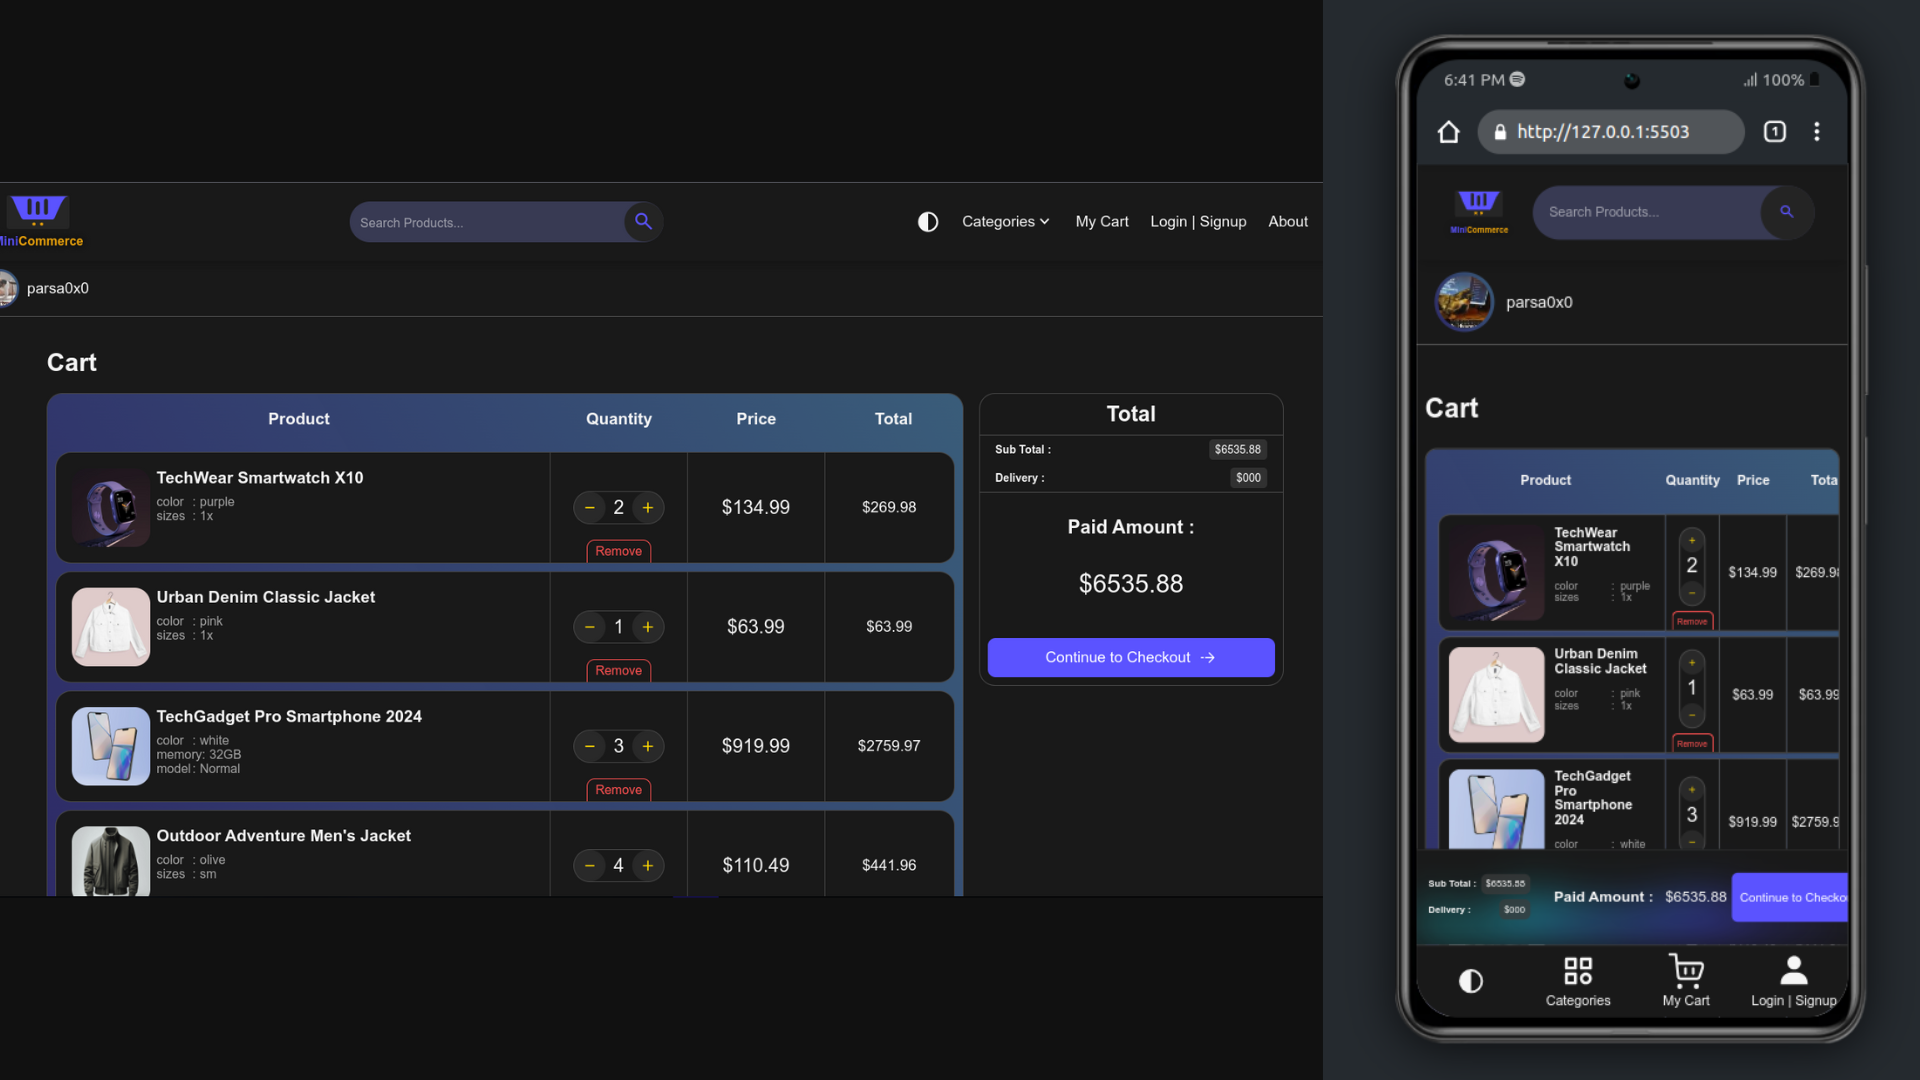
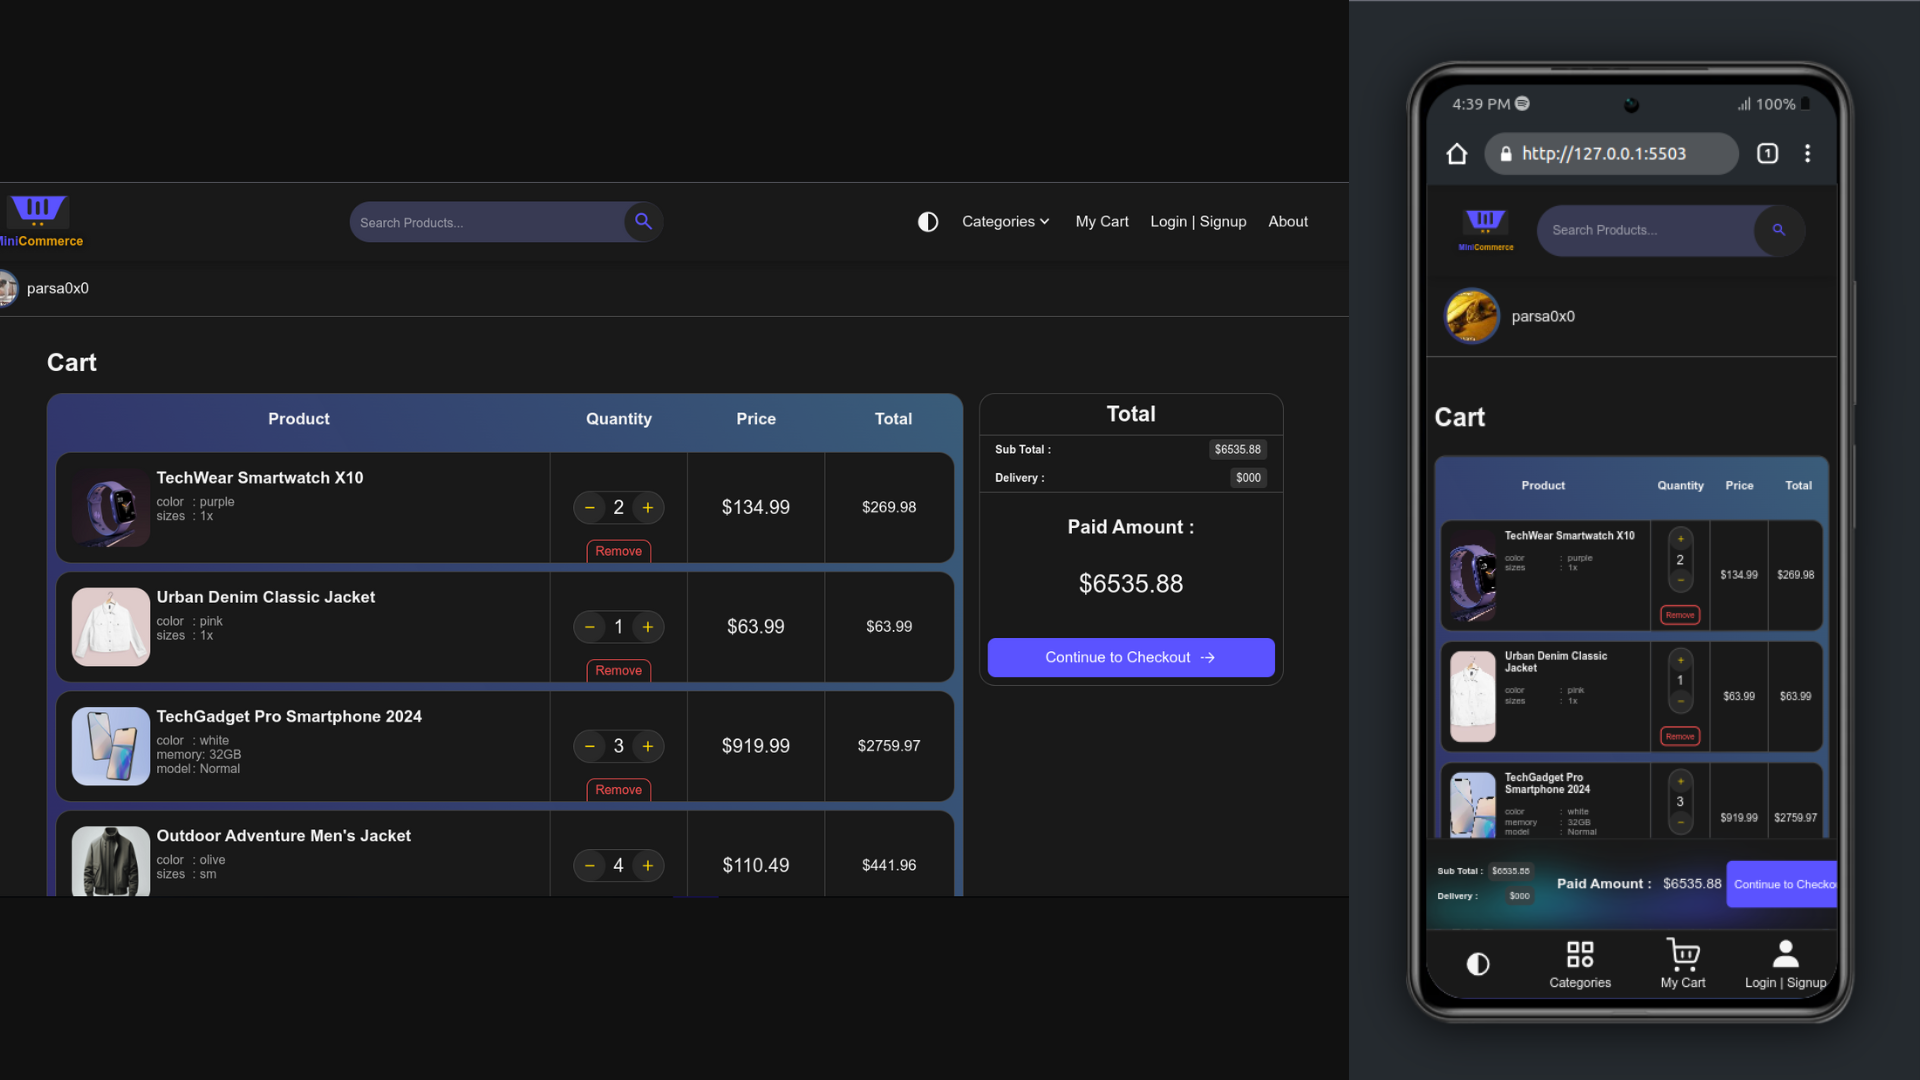
editted cart.css & screenshot of cart page(sc-4.png)

Changed region(s): [[0.6875, 0.0, 1.0, 1.0]]

diff --git a/css/cart.css b/css/cart.css
@@ -208,6 +208,9 @@ html, body {
 
 .quantity-wrapper {
    position: relative;
+   display: flex;
+   flex-direction: column;
+   justify-content: space-evenly;
 }
 
 .quantity-cont {
@@ -245,8 +248,8 @@ html, body {
 }
 
 .quantity-remove-cont {
-   position: absolute;
-   bottom: 0;
+   /* position: absolute; */
+   /* bottom: 0; */
 }
 
 .quantity-remove-btn {
@@ -254,10 +257,10 @@ html, body {
    background-color: transparent;
    /* border-radius: 10px 10px 0 0; */
    border-radius: calc( var(--base-border-radius) / 2 );
-   border-bottom-right-radius: 0;
-   border-bottom-left-radius: 0;
+   /* border-bottom-right-radius: 0; */
+   /* border-bottom-left-radius: 0; */
    border: var(--cart-product-quantity-remove-border);
-   border-bottom: none;
+   /* border-bottom: none; */
    color: var(--cart-product-quantity-remove-txt);
    font-size: 1rem;
    cursor: pointer;
@@ -545,7 +548,7 @@ html, body {
    }
 
    .cart-products-table-heading {
-      font-size: 1rem;
+      font-size: .9rem;
    }
 
    .cart-products-table-row:last-of-type {
@@ -594,14 +597,23 @@ html, body {
       height: 20px;
    }
 
+   .quantity-remove-cont {
+   }
+
    .quantity-remove-btn {
       padding: 4px;
       font-size: .6rem;
+
+      &:hover,
+      &:focus {
+         transform: unset;
+         translate: unset;
+      }
    }
 
    .price-cont,
    .total-cont {
-      font-size: 1rem;
+      font-size: .8rem;
    }
 
    .cart-checkout-cont {
@@ -740,6 +752,46 @@ html, body {
 }
 @media screen and (max-width: 446px) {
 
+   .cart-products-cont {
+      overflow: auto;
+   }
+   
+   .cart-products-table-data {
+      padding: 4px 0 !important;
+   }
+
+   .cart-products-table-data:first-child {
+      padding-left: 4px !important;
+   }
+
+   .cart-products-table-data:last-child {
+      padding-right: 4px !important;
+   }
+
+   .cart-products-table-data-wrapper.quantity-wrapper {
+
+   }
+
+   .cart-products-table-data-quantity-num {
+      font-size: 1rem;
+   }
+
+   .cart-products-table-data-product {
+      display: flex;
+      align-items: center;
+   }
+
+   .cart-products-table-data-product-img-cont {
+      width: 40px;
+   }
+
+   .cart-products-table-data-product-title {
+      font-size: .8rem;
+   }
+
+   .cart-products-table-data-product-model {
+      font-size: .7rem;
+   }
 }
 
 /* End of ---- Media Quereies ------ */
